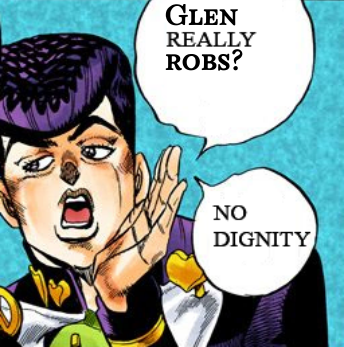
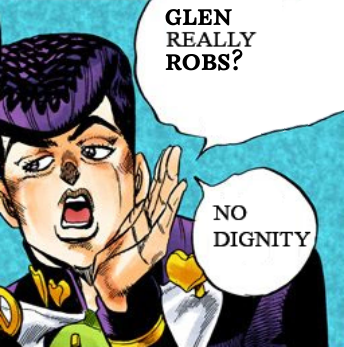
Improved image mu

Changed region(s): [[0.7558, 0.0, 1.0, 0.4035], [0.4651, 0.0, 0.6977, 0.0865]]

diff --git a/webApp.py b/webApp.py
@@ -3,6 +3,8 @@ import praw, twitter, requests, json, re
 from discord.ext import commands
 import config
 from datetime import date
+from bs4 import BeautifulSoup
+
 
 # reddit initialize
 reddit = praw.Reddit(client_id=config.config["redditClientID"],
@@ -129,6 +131,15 @@ class web(commands.Cog):
         await ctx.send(prettyList(acc))
         # print([s.text for s in statuses])
 
+    @commands.command( hidden=True)
+    async def price(self,ctx):
+        url = "https://tools.usps.com/go/TrackConfirmAction?tLabels=9400111699000133585467"
+        r = requests.get(url)
+        html = r.text
+        parsed = BeautifulSoup(html)
+        status = parsed.body.find('div', attrs={'class': 'delivery_status'})
+        print(status.text)
+
 
 def getPosts(sub, n):
     main = []
@@ -143,7 +154,6 @@ def getPosts(sub, n):
 def shiftEx(tweet):
     # list = [y for y in (x.strip() for x in str.splitlines()) if y]
     check = tweet.lower()
-    print(tweet)
     if 'shift code' in check:
         if "borderlands 3" in check:
             m = re.search('.....[-].....[-].....[-].....[-].....', tweet)
@@ -154,6 +164,10 @@ def shiftEx(tweet):
                 except:
                     return m.group(0) + "  |  Other"
     return "None"
+
+
+
+
 
 
 def prettyList(lst):

diff --git a/imageMu.py b/imageMu.py
@@ -156,8 +156,8 @@ class imageMu(commands.Cog):
         font = ImageFont.truetype("fonts.otf", 32)
         # draw.text((x, y),"Sample Text",(r,g,b))
         draw.text((165, 0), name, (0, 0, 0), font=font)
-        lines = textwrap.wrap(action, width=8)
-        font2 = ImageFont.truetype("fonts.otf", int(32 / len(lines)) * 3)
+        lines = textwrap.wrap(action, width=10,break_long_words=False)
+        font2 = ImageFont.truetype("fonts.otf", int(32 / len(lines)))
         y_text = 44
         i = 0
         if len(lines) > 1:
@@ -165,8 +165,9 @@ class imageMu(commands.Cog):
                 width, height = font.getsize(line)
                 if i == len(lines)-1:
                     line = line + "?"
-                draw.text((165, y_text), line,  (0, 0, 0), font=font2)
-                y_text += int(height/ len(lines)) * 3
+                draw.text((165, y_text), line,  (0, 0, 0), font=font)
+               # y_text += int(height/ len(lines)) * 3
+                y_text += height
                 i+=1
         else:
             draw.text((165, 44), action + "?", (0, 0, 0), font=font)
